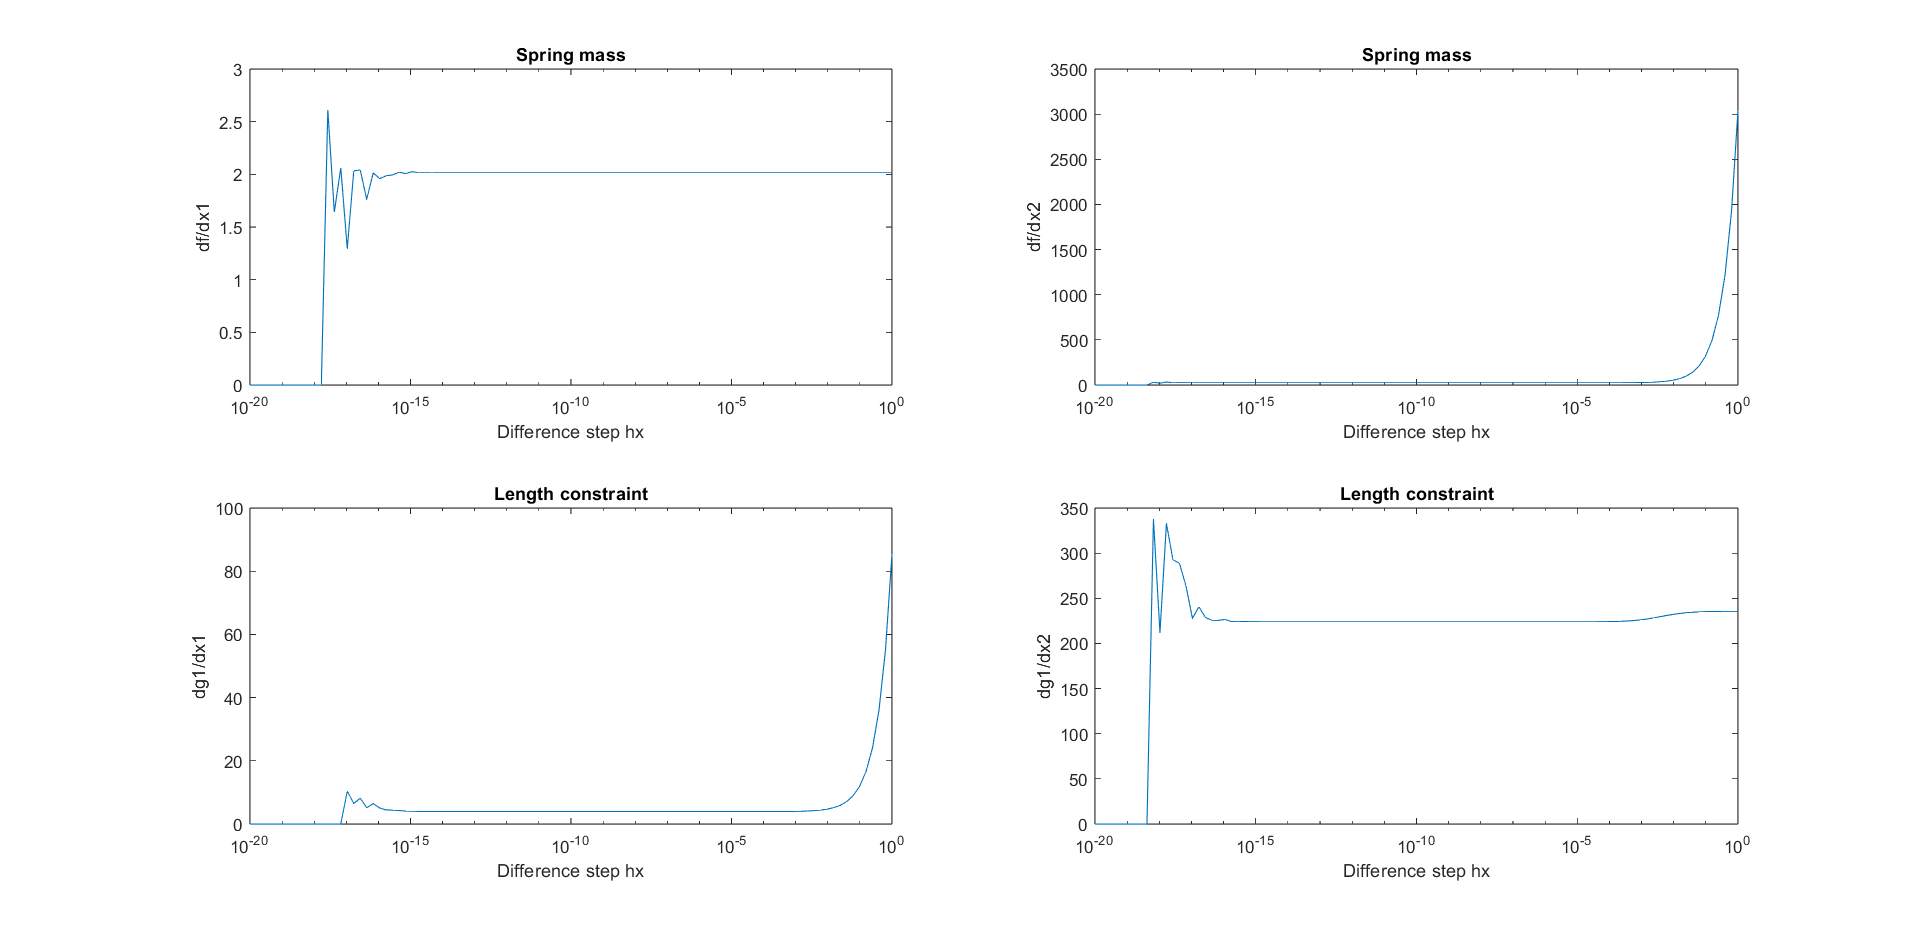
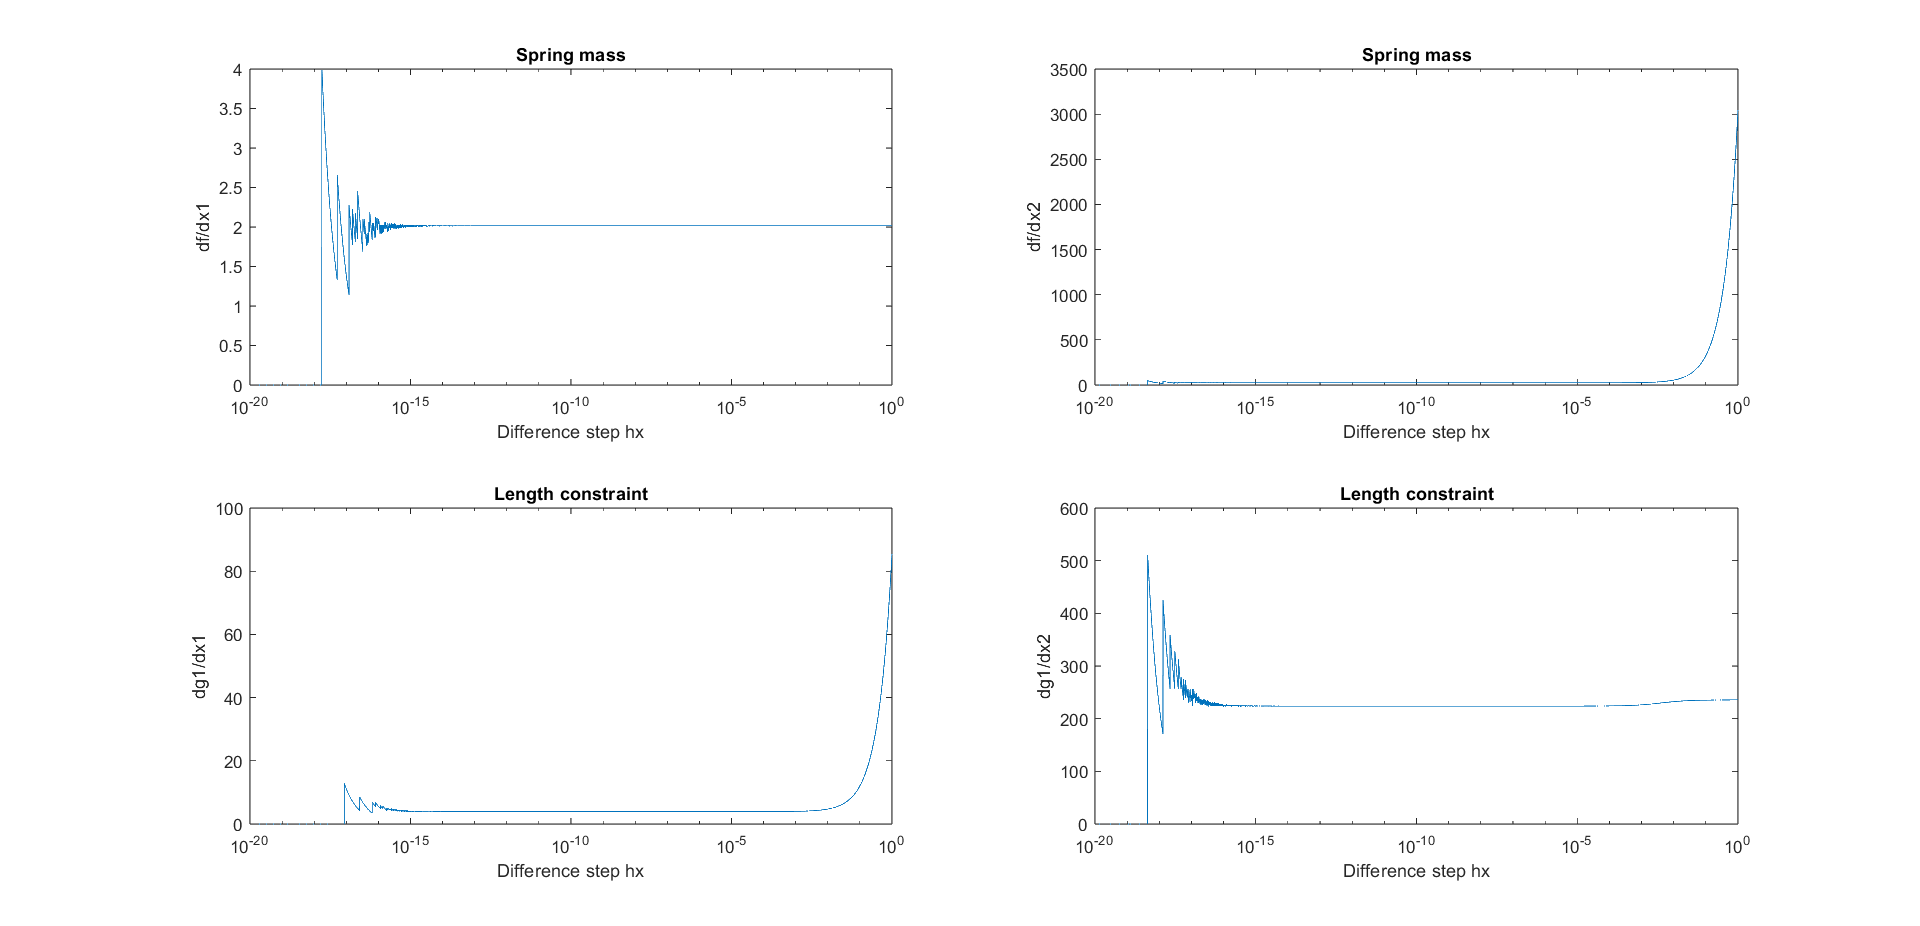
Actually finished 5.1 now

diff --git a/Exercises/Exercise_5/springw5ex1.m b/Exercises/Exercise_5/springw5ex1.m
@@ -12,7 +12,7 @@ clf, hold off, clear
 x = [0.024 0.004];  
 
 % Forward finite diffence gradients of objective function and constraints
-hx = logspace(-20,0,100); % vector of finite difference steps
+hx = logspace(-20,0,10000); % vector of finite difference steps
 % hx = logspace(-6,0,5000); % vector of finite difference steps
 for i=1:1:length(hx)
 
@@ -36,21 +36,29 @@ for i=1:1:length(hx)
 end
 
 % Plotting finite difference gradients
+% subplot(221)
+% semilogx(hx,dfdx1)
+% xlabel('Difference step hx'), ylabel('df/dx1'), title('Spring mass')
+% 
+% subplot(222)
+% semilogx(hx,dfdx2)
+% xlabel('Difference step hx'), ylabel('df/dx2'), title('Spring mass')
+
 subplot(221)
-semilogx(hx,dfdx1)
-xlabel('Difference step hx'), ylabel('df/dx1'), title('Spring mass')
+semilogx(hx,dgdx1(:,4)')
+xlabel('Difference step hx'), ylabel('dg4/dx1'), title('Scaled shear stress constraint') 
 
 subplot(222)
-semilogx(hx,dfdx2)
-xlabel('Difference step hx'), ylabel('df/dx2'), title('Spring mass')
+semilogx(hx,dgdx2(:,4)')
+xlabel('Difference step hx'), ylabel('dg4/dx2'), title('Scaled shear stress constraint')
 
 subplot(223)
-semilogx(hx,dgdx1(:,1)')
-xlabel('Difference step hx'), ylabel('dg1/dx1'), title('Length constraint') 
+semilogx(hx,dgdx1(:,5)')
+xlabel('Difference step hx'), ylabel('dg5/dx1'), title('Scaled frequency constraint') 
 
 subplot(224)
-semilogx(hx,dgdx2(:,1)')
-xlabel('Difference step hx'), ylabel('dg1/dx2'), title('Length constraint') 
+semilogx(hx,dgdx2(:,5)')
+xlabel('Difference step hx'), ylabel('dg5/dx2'), title('Scaled frequency constraint') 
 
 % subplot(221)
 % plot(hx,dfdx1)

diff --git a/Exercises/Exercise_5/springcon1.m b/Exercises/Exercise_5/springcon1.m
@@ -41,4 +41,5 @@ g(4) = Tau2/Tau12max - 1;
 freq1lb = ncamfac * nm/2;
 g(5) = 1 - freq1/freq1lb;
 
+g(1)=str2double(num2str(g(1)));
 %end 
